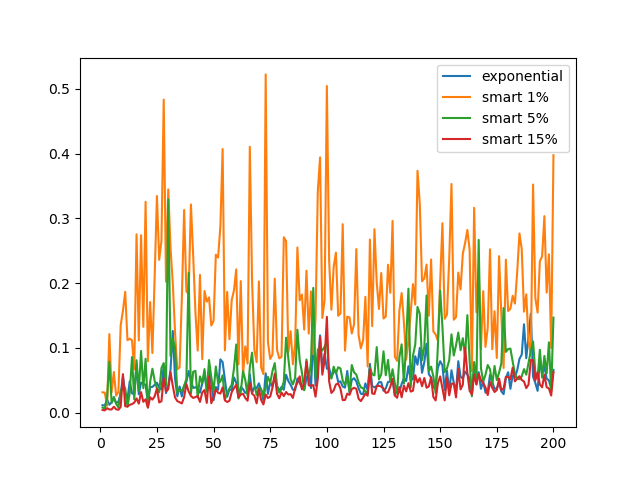
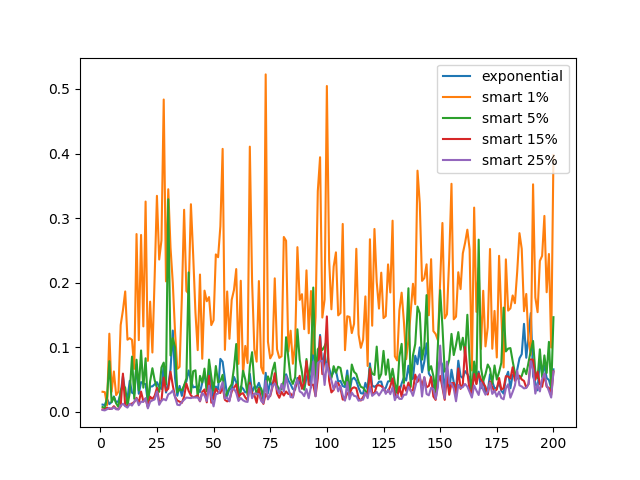
results for the 25% smart variance

Changed region(s): [[0.1562, 0.7188, 0.875, 0.875], [0.6875, 0.3125, 0.875, 0.375], [0.0625, 0.8438, 0.125, 0.875]]

diff --git a/plot/variance-plot.py b/plot/variance-plot.py
@@ -4,11 +4,12 @@ import matplotlib.pyplot as plt
 from statistics import mean
 
 benchmarks = [
-    ('standard', '../logs/variance-standard.txt'),
+#    ('standard', '../logs/variance-standard.txt'),
     ('exponential', '../logs/variance-exponential.txt'),
     ('smart 1%', '../logs/variance-smart-1%.txt'),
     ('smart 5%', '../logs/variance-smart-5%.txt'),
-    ('smart 15%', '../logs/variance-smart-15%.txt')
+    ('smart 15%', '../logs/variance-smart-15%.txt'),
+    ('smart 25%', '../logs/variance-smart-25%.txt')
 ]
 
 def parse_file(filename):
